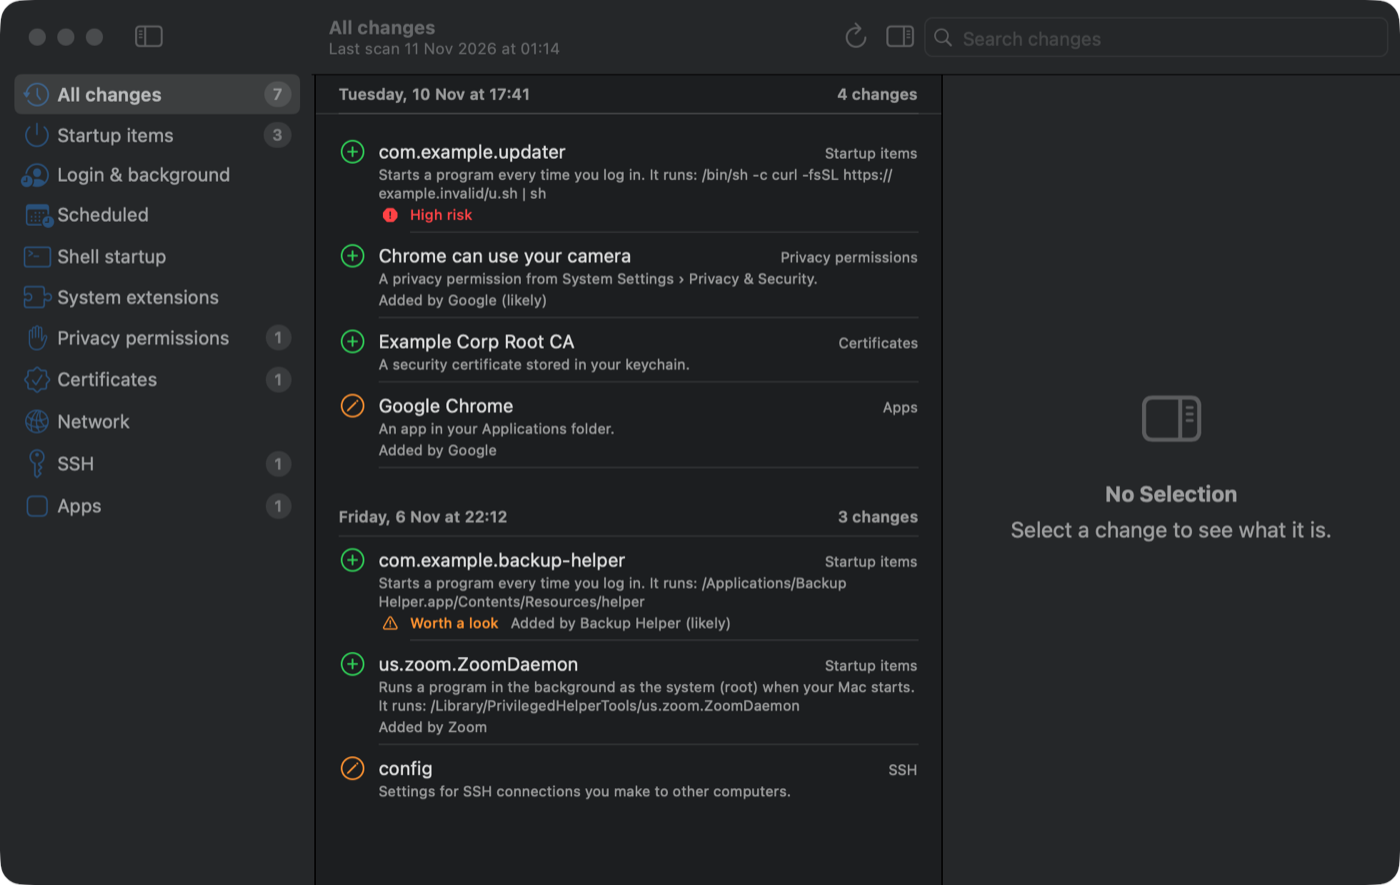
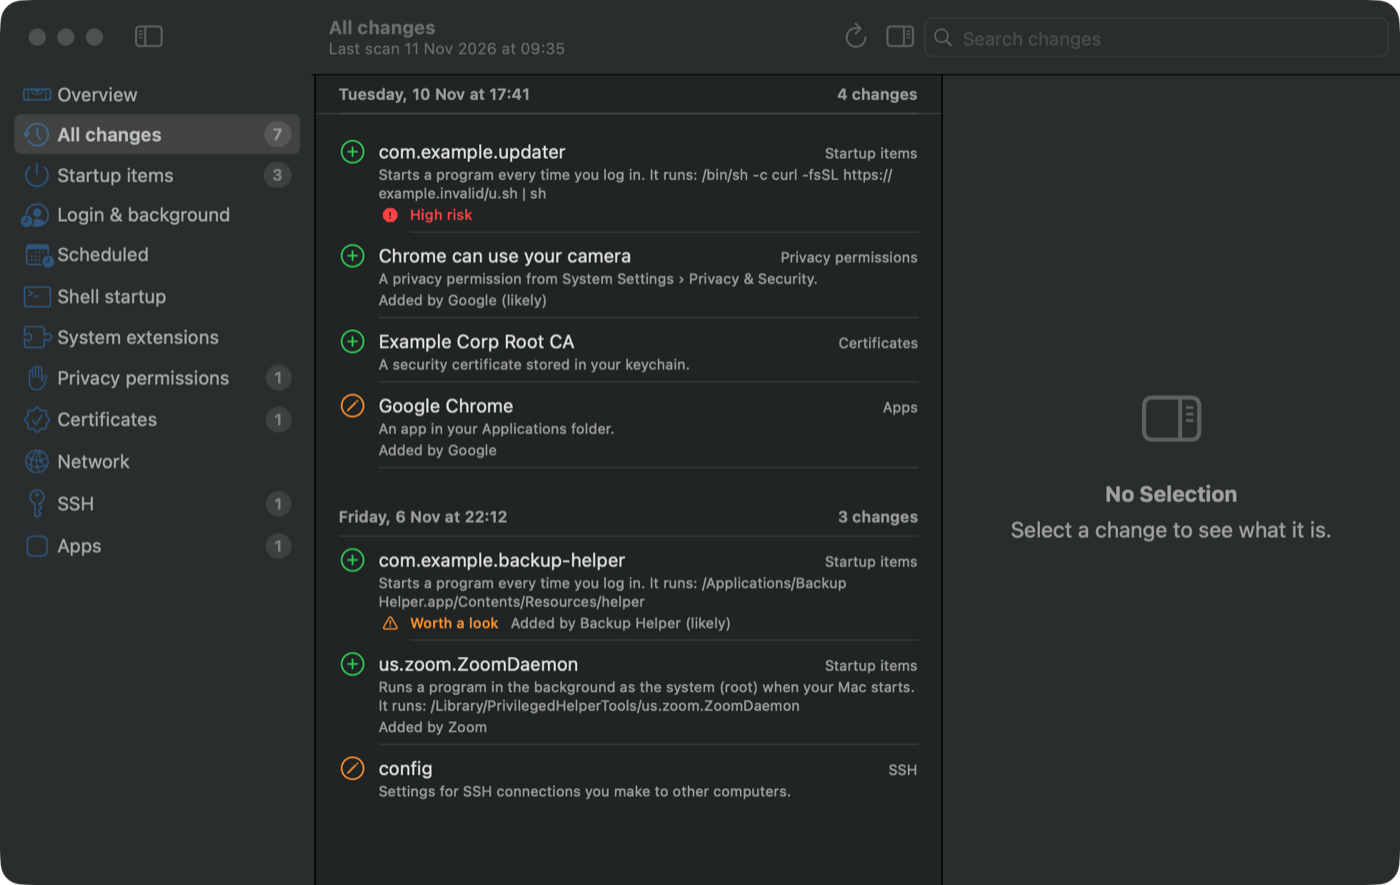
docs: add overview screenshots
scripts/screenshots.sh now also captures the overview with nothing risky, with risky changes, and when Driftwatch can't see everything, in light and dark. The stub scanner reads each state from the demo HOME, with the example scans moved by whole days so the 7- and 30-day windows stay true whenever it runs. The README leads with the overview and shows the timeline next to the item it explains.

diff --git a/README.md b/README.md
@@ -10,18 +10,29 @@ Apps quietly add things to your Mac: helpers that start at login, permissions to
 
 <p align="center">
   <picture>
-    <source media="(prefers-color-scheme: dark)" srcset="docs/screenshots/timeline-dark.png">
-    <img src="docs/screenshots/timeline-light.png" width="700" alt="The Driftwatch window. A sidebar lists the areas it watches. The timeline shows the latest scan first: a new startup item, com.example.updater, marked High risk because it downloads code from the internet and runs it; Chrome getting camera access; a new certificate; a Google Chrome update. An older scan below lists two new startup items and a changed SSH settings file.">
+    <source media="(prefers-color-scheme: dark)" srcset="docs/screenshots/overview-look-dark.png">
+    <img src="docs/screenshots/overview-look-light.png" width="700" alt="The Driftwatch overview. A spirit level with its bubble drifted off centre sits above the sentence “2 risky changes in the last 7 days.” and “Watching 412 items on this Mac.” A bar chart shows changes per day for the last 30 days: 3 on 6 November, one of them worth a look, and 4 on 10 November, one of them high risk. Below, each area Driftwatch watches lists its item count and its changes from the last 7 days, such as 3 changes in startup items.">
   </picture>
   <br>
   <sub>Example data, not a real Mac.</sub>
 </p>
 
-It's for anyone who installs apps and wants to know what they left behind. It runs in the menu bar and in a timeline window, and scans when it starts and every 30 minutes. Everything stays on your Mac: no account, no network calls, and the code is all here to check.
+It's for anyone who installs apps and wants to know what they left behind. It runs in the menu bar and in a window, and scans when it starts and every 30 minutes. The window opens on an overview: one sentence on whether anything risky changed in the last 7 days, changes per day for the last 30 days, and each area it watches. Everything stays on your Mac: no account, no network calls, and the code is all here to check.
 
 ## What it tells you
 
-Each change gets a short title, one plain sentence about what it is, a risk hint with the reason, and who probably added it. For the item at the top of the screenshot:
+Each change gets a short title, one plain sentence about what it is, a risk hint with the reason, and who probably added it.
+
+<p align="center">
+  <picture>
+    <source media="(prefers-color-scheme: dark)" srcset="docs/screenshots/timeline-dark.png">
+    <img src="docs/screenshots/timeline-light.png" width="700" alt="The Driftwatch timeline. A sidebar lists the overview and the areas it watches. The timeline shows the latest scan first: a new startup item, com.example.updater, marked High risk because it downloads code from the internet and runs it; Chrome getting camera access; a new certificate; a Google Chrome update. An older scan below lists two new startup items and a changed SSH settings file.">
+  </picture>
+  <br>
+  <sub>Example data, not a real Mac.</sub>
+</p>
+
+For the item at the top of the screenshot:
 
 > **com.example.updater** (added, Startup items)
 >
@@ -96,7 +107,7 @@ To regenerate the README screenshots from the example data in `docs/screenshots/
 scripts/build-app.sh && scripts/screenshots.sh
 ```
 
-It runs a separate copy of the app with a stub scanner that only prints the example data, so your own history and settings are not touched.
+It runs a separate copy of the app with a stub scanner that only prints the example data, so your own history and settings are not touched. It writes the timeline and the overview in three states (nothing risky, risky changes, can't see everything), each in light and dark.
 
 ### Full Disk Access
 
